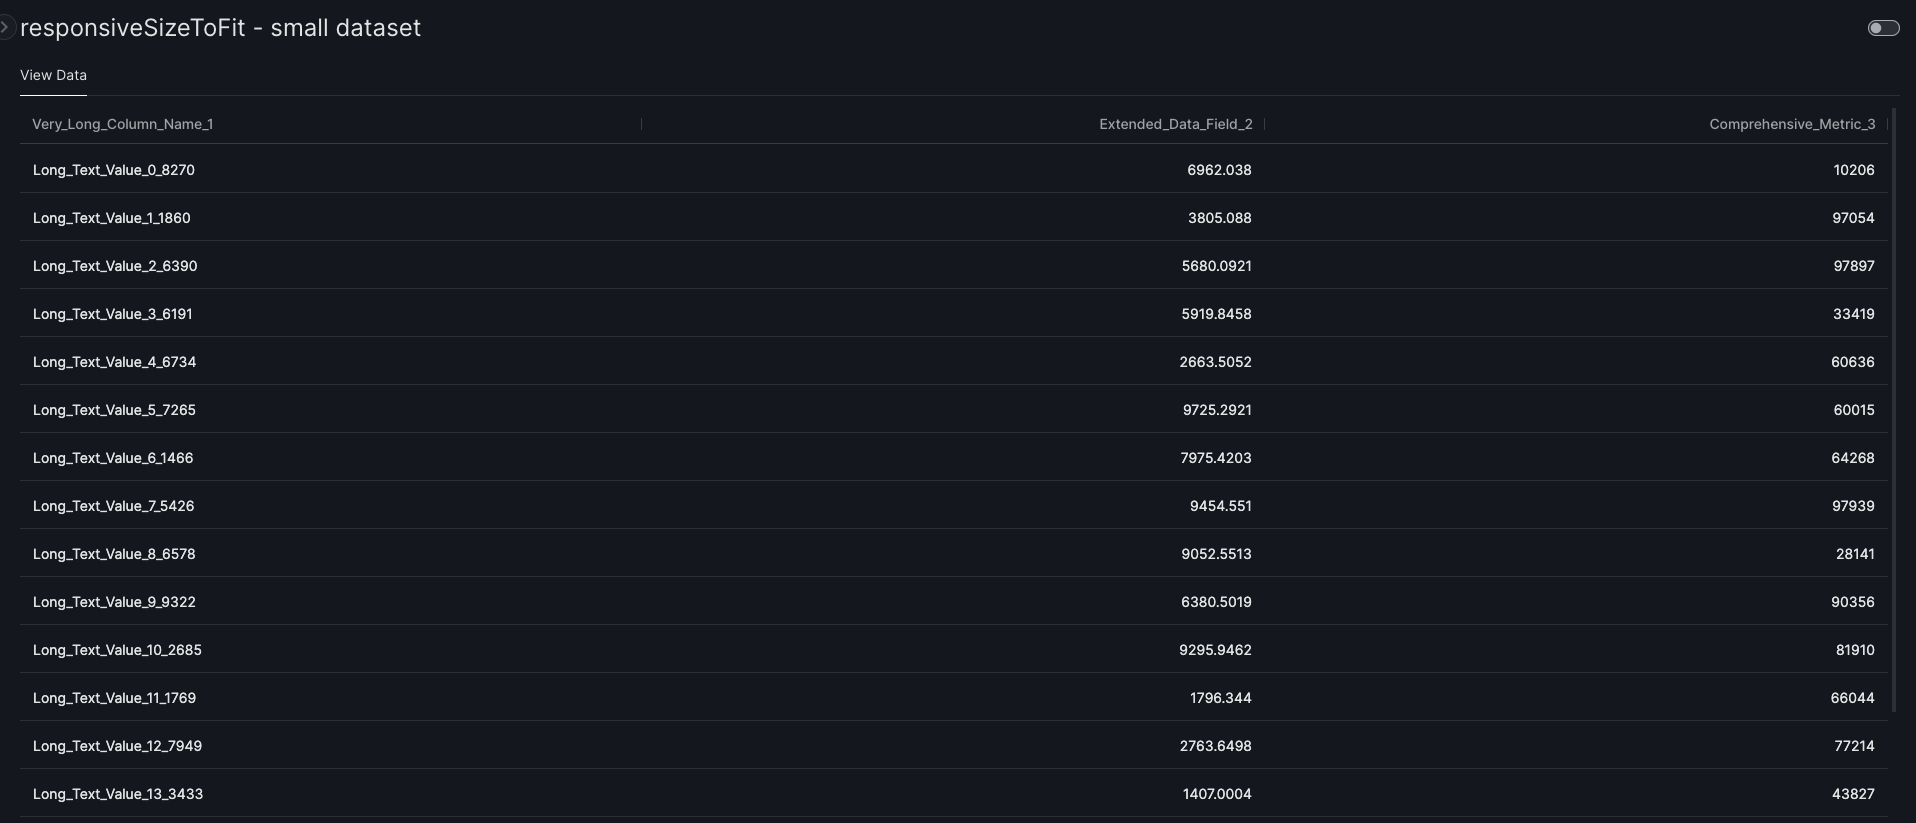
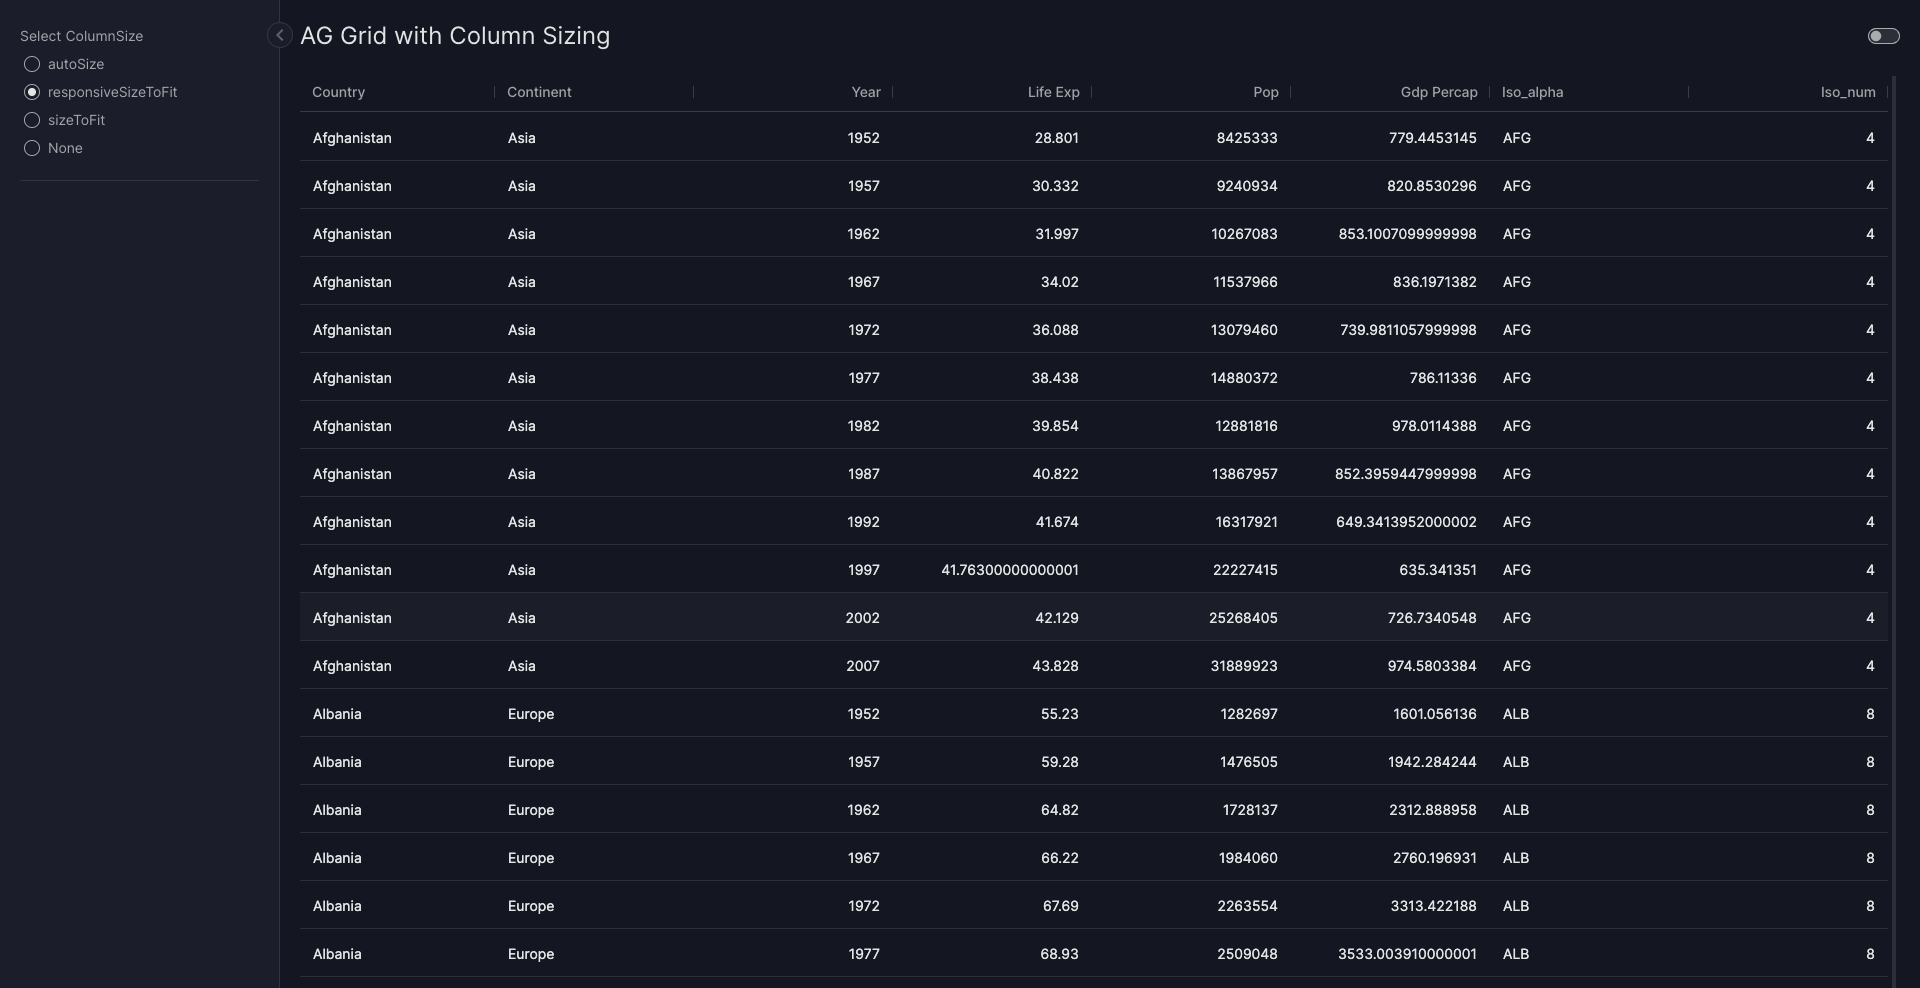
Improve example

diff --git a/vizro-core/docs/pages/user-guides/table.md b/vizro-core/docs/pages/user-guides/table.md
@@ -219,7 +219,7 @@ For more advanced column sizing configurations, you can use the `columnSizeOptio
 
     === "app.py"
 
-        ```{.python pycafe-link hl_lines="11"}
+        ```{.python pycafe-link hl_lines="10"}
         import vizro.models as vm
         import vizro.plotly.express as px
         from vizro import Vizro
@@ -229,12 +229,22 @@ For more advanced column sizing configurations, you can use the `columnSizeOptio
 
         page = vm.Page(
             title="AG Grid with Column Sizing",
-            components=[
-                vm.AgGrid(
-                    title="AG Grid with responsiveSizeToFit columns",
-                    figure=dash_ag_grid(data_frame=df, columnSize="responsiveSizeToFit")
+            components=[vm.AgGrid(id="ag-grid", figure=dash_ag_grid(data_frame=df, columnSize="responsiveSizeToFit"))],
+            controls=[
+                vm.Parameter(
+                    targets=["ag-grid.columnSize"],
+                    selector=vm.RadioItems(
+                        title="Select ColumnSize",
+                        options=[
+                            {"value": "autoSize", "label": "autoSize"},
+                            {"value": "responsiveSizeToFit", "label": "responsiveSizeToFit"},
+                            {"value": "sizeToFit", "label": "sizeToFit"},
+                            {"value": "NONE", "label": "None"},
+                        ],
+                        value="responsizeSizeToFit"
+                    ),
                 )
-            ]
+            ],
         )
 
         dashboard = vm.Dashboard(pages=[page])
@@ -244,14 +254,27 @@ For more advanced column sizing configurations, you can use the `columnSizeOptio
     === "app.yaml"
 
         ```yaml
+        # Still requires a .py to add data to the data manager and parse YAML configuration
+        # See yaml_version example
         pages:
           - components:
               - figure:
                   _target_: dash_ag_grid
                   data_frame: gapminder
                   columnSize: responsiveSizeToFit
-                title: AG Grid with responsiveSizeToFit columns
+                id: ag-grid
                 type: ag_grid
+            controls:
+              - selector:
+                  options: [{value: autoSize, label: autoSize}, {value: 
+                          responsiveSizeToFit, label: responsiveSizeToFit}, {value: 
+                          sizeToFit, label: sizeToFit}, {value: NONE, label: None}]
+                  value: responsiveSizeToFit
+                  title: Select ColumnSize
+                  type: radio_items
+                targets:
+                  - ag-grid.columnSize
+                type: parameter
             title: AG Grid with Column Sizing
         ```
 
